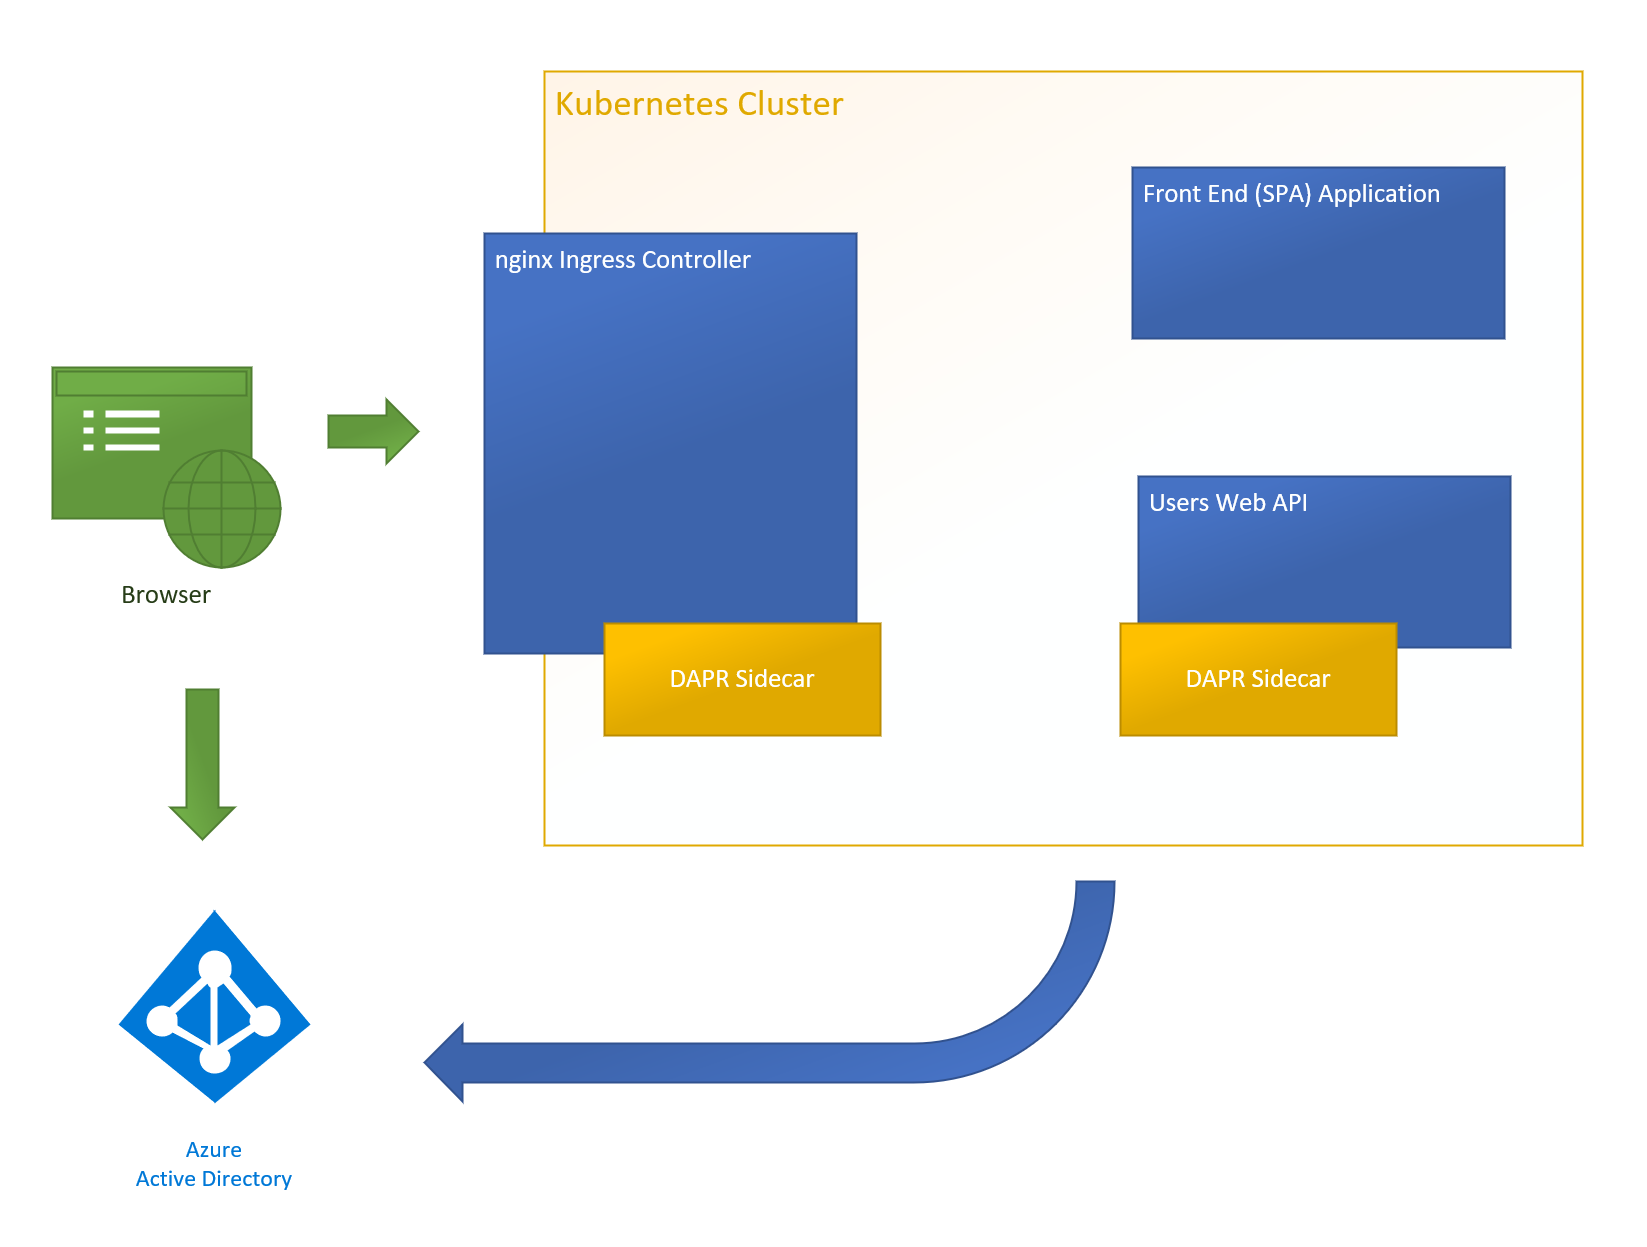
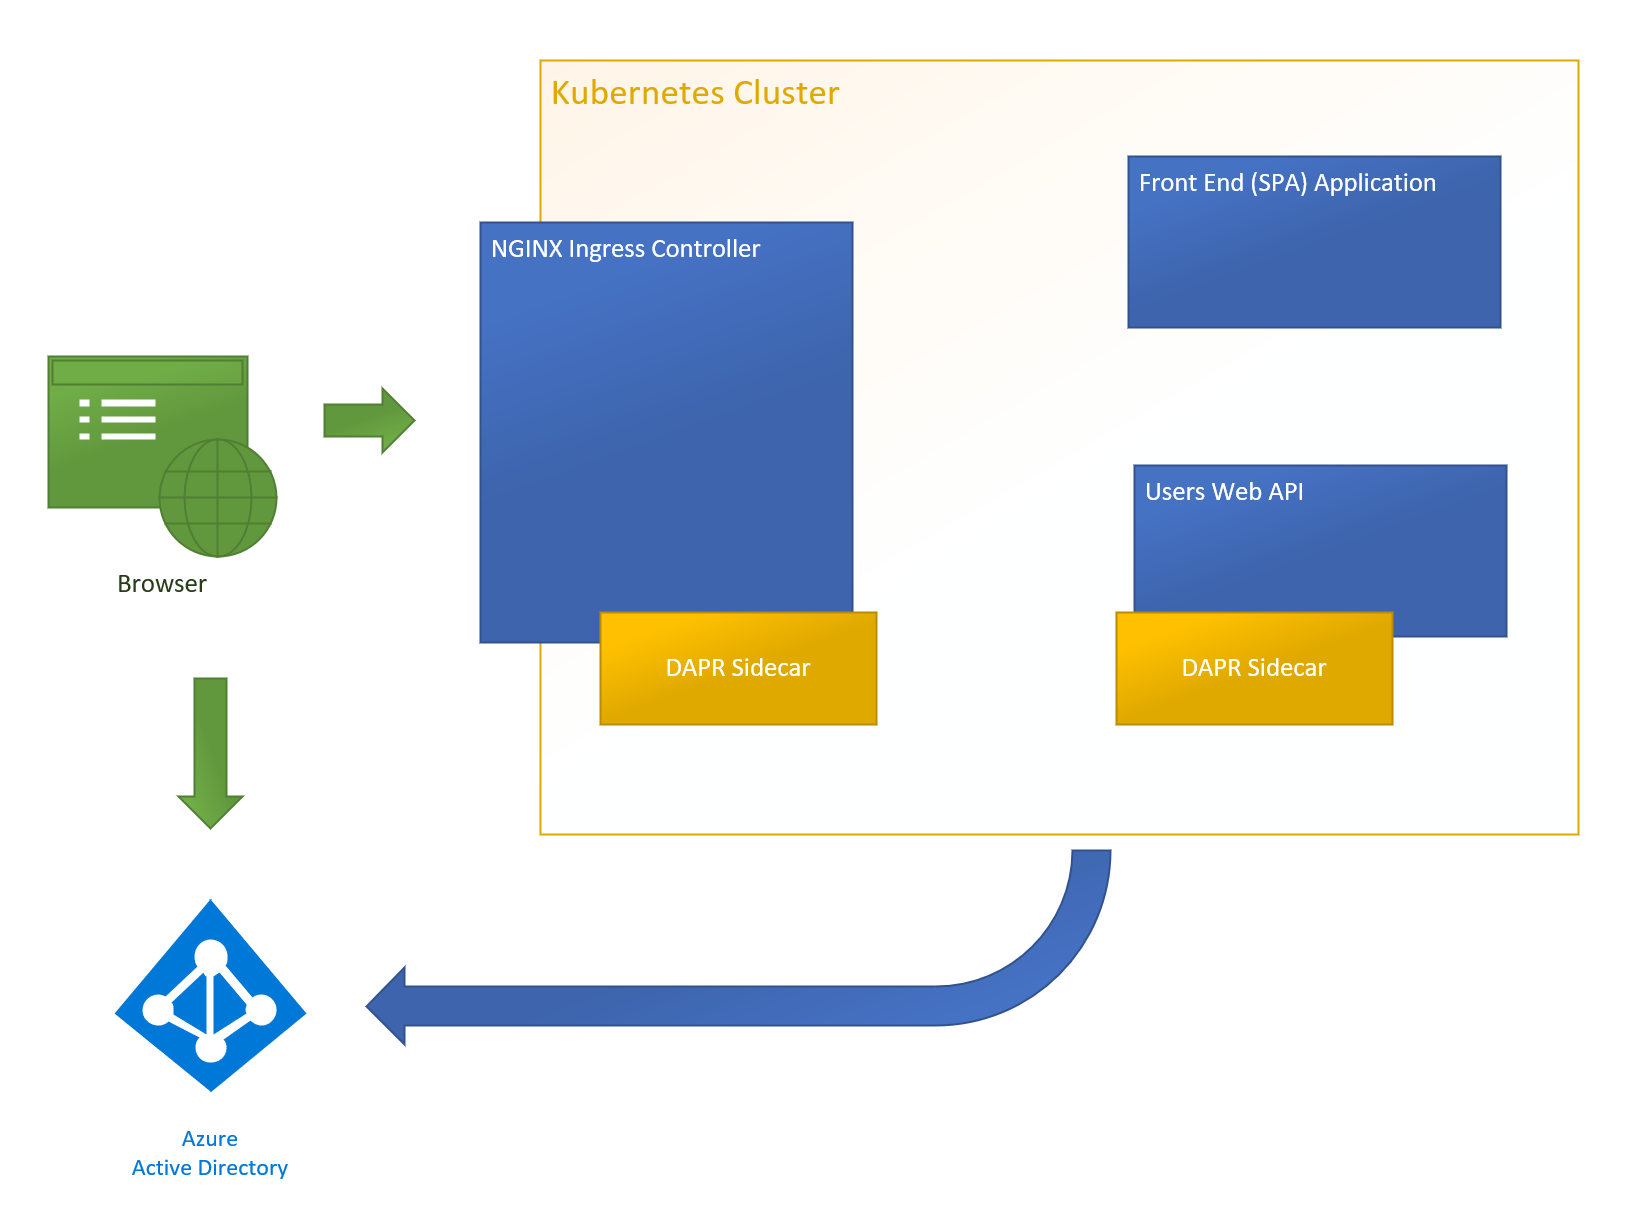
Updating post two.

diff --git a/src/styles/global.css b/src/styles/global.css
@@ -57,6 +57,9 @@ html {
     @apply underline;
     text-decoration-color: #ccc;
   }
+  & blockquote {
+    @apply mb-4 mt-4 ml-8 pl-4 bg-gray-50 border-l-2;
+  }
 }
 
 @tailwind utilities;

diff --git a/content/posts/2021/k8s-dapr-azure-identity-part-ii.module.css b/content/posts/2021/k8s-dapr-azure-identity-part-ii.module.css
@@ -1,0 +1,4 @@
+.browserPage {
+  @apply mt-4 mb-4 ml-4 border shadow-md;
+  width: 70%;
+}

diff --git a/content/posts/2021/k8s-dapr-azure-identity-part-ii.md b/content/posts/2021/k8s-dapr-azure-identity-part-ii.md
@@ -8,4 +8,229 @@ tags:
   - Identity
 ---
 
+import styles from "./k8s-dapr-azure-identity-part-ii.module.css";
+
 ## Building a Web Front End and Ingress
+
+The first step is to build a simple web application and then create a path for a client (a web browser) to access this application. The source for this post is from the [`building-frontend-app`](https://github.com/dfbaskin/azure-and-dapr-identity-example/tree/building-frontend-app) branch in the repo.
+
+I’m using [React](https://reactjs.org/), starting with [create-react-app](https://create-react-app.dev/) using the [Typescript template](https://create-react-app.dev/docs/adding-typescript). I am also using [react-router](https://reactrouter.com/web/guides/quick-start) to provide routes for navigation within the application.
+
+Because I want to use access the application using `https://`, I've added additional configuration to the `packages/browser-frontend/.env` file that incorporates the certificates that were created previously.
+
+```
+BROWSER=none
+HTTPS=true
+SSL_CRT_FILE=../../certs/testing-local.crt
+SSL_KEY_FILE=../../certs/testing-local.key
+```
+
+Doing so, allows me to run the web application locally (using `npm start`) at the address:
+
+[`https://testing.local:3000/`](https://testing.local:3000/)
+
+If the certificate was not set up correctly, the browser will complain about it being invalid or uknown.
+
+## Building the Front End Container Image
+
+The next step is to build a container image (using Docker) that will be deployed to the Kubernetes cluster. Running the command:
+
+```
+npm run build
+```
+
+builds the React application into a set of static set of files (including `index.html`, JavaScript, CSS, and other files). These files need to be served to the client (a browser). A popular mechanism is to use the open-source [NGINX](https://docs.nginx.com/nginx/admin-guide/installing-nginx/installing-nginx-open-source/) package.
+
+The `packages/browser-frontend/Dockerfile` describes the container using a pre-existing NGINX image where the web application build files as well as a `nginx.conf` configuration file are copied into it.
+
+```
+FROM nginx:latest
+COPY ./deploy/frontend-nginx.conf /etc/nginx/nginx.conf
+COPY ./build/ /var/www/site/
+```
+
+In the web application, there are two routes, one to the root (`/`) and one to an "About" page (`/about`). When serving content for a SPA web site, the server needs to recognize that the About page really comes from the default `index.html` content. There is no content to load if the user refreshes the page on the `/about` route. So the `packages/browser-frontend/deploy/frontend-nginx.conf` handles sending the correct content.
+
+```
+http {
+  include mime.types;
+  sendfile on;
+  server {
+    listen 80 default_server;
+    root /var/www/site;
+    index index.html index.htm;
+    location ~* \.(?:manifest|appcache|html?|xml|json)$ {
+      expires -1;
+    }
+    location ~* \.(?:css|js)$ {
+      try_files $uri =404;
+      expires 1y;
+      access_log off;
+      add_header Cache-Control "public";
+    }
+    location ~ ^.+\..+$ {
+      try_files $uri =404;
+    }
+    location / {
+        try_files $uri $uri/ /index.html;
+    }
+  }
+}
+```
+
+The following script can be used to build the static web site and the container image:
+
+`packages/browser-frontend/deploy/build-frontend-image.ps1`
+
+To incorporate this image into Kubernetes, the following configuration is used to define a [deployment](https://kubernetes.io/docs/concepts/workloads/controllers/deployment/) and a [service](https://kubernetes.io/docs/concepts/services-networking/service/).
+
+```
+apiVersion: apps/v1
+kind: Deployment
+metadata:
+  name: frontend-deployment
+spec:
+  selector:
+    matchLabels:
+      app: frontend
+  replicas: 1
+  template:
+    metadata:
+      labels:
+        app: frontend
+    spec:
+      containers:
+        - name: nginx
+          image: frontend-webserver:v1.3
+          imagePullPolicy: Never
+          ports:
+            - containerPort: 80
+
+---
+apiVersion: v1
+kind: Service
+metadata:
+  name: frontend-service
+spec:
+  selector:
+    app: frontend
+  ports:
+    - name: http
+      protocol: TCP
+      port: 80
+      targetPort: 80
+```
+
+The deployment describes the state of the [pod](https://kubernetes.io/docs/concepts/workloads/pods/) including the image that was built as described above. The service then exposes the deployment as a network service.
+
+The following scripts can be used to initialize these components:
+
+- `packages/nginx-ingress/create-namespace.ps1` - creates a separate [namespace](https://kubernetes.io/docs/concepts/overview/working-with-objects/namespaces/) in which to install the example application. This makes deleting the entire application from Kubernetes easier.
+
+- `packages/browser-frontend/deploy/initialize-frontend.ps1` - applies the configuration for the front end application using the image that was built previously.
+
+We can now verify that the front end application is running with a few commands:
+
+```
+> kubectl get deployment -n azure-dapr-identity-example
+
+NAME                  READY   UP-TO-DATE   AVAILABLE   AGE
+frontend-deployment   1/1     1            1           62s
+
+> kubectl get service -n azure-dapr-identity-example
+
+NAME               TYPE        CLUSTER-IP       EXTERNAL-IP   PORT(S)   AGE
+frontend-service   ClusterIP   10.103.234.151   <none>        80/TCP    81s
+
+> kubectl get pod -n azure-dapr-identity-example
+
+NAME                                   READY   STATUS    RESTARTS   AGE
+frontend-deployment-68dbc6f5dd-2qj82   1/1     Running   0          4m5s
+
+> kubectl port-forward service/frontend-service 32001:http -n azure-dapr-identity-example
+
+Forwarding from 127.0.0.1:32001 -> 80
+Forwarding from [::1]:32001 -> 80
+```
+
+The last command temporarily forwards requests from your local machine on port 32001 to the `http` port (port 80) of the `frontend-service` (press `Ctrl`+`C` to stop it). Navigate in a browser to [http://localhost:32001/](http://localhost:32001/) and you should see the web application.
+
+<div className={styles.browserPage}>
+
+![Example Web Application](./images/web-app.png)
+
+</div>
+
+(The application doesn't do anything interesting, yet.)
+
+## The NGINX Ingress Controller
+
+An [Ingress](https://kubernetes.io/docs/concepts/services-networking/ingress/) allows the outside world to interact with services within the Kubernetes cluster. The [IngressClass](https://kubernetes.io/docs/concepts/services-networking/ingress/#ingress-class) defines configuration for a particular type of ingress including the type of [Controller](https://kubernetes.io/docs/concepts/services-networking/ingress-controllers/) that implements the class.
+
+In our example, we are using the [NGINX Ingress Controller](https://docs.nginx.com/nginx-ingress-controller/overview/) for Kubernetes.
+
+> _Note that this ingress controller is different from the [NGINX Ingress Controller](https://kubernetes.github.io/ingress-nginx/) maintained by the Kubernetes team. The differences are documented [here](https://github.com/nginxinc/kubernetes-ingress/blob/master/docs/nginx-ingress-controllers.md)._
+
+The simplest way to use this ingress controller is using a [Helm](https://helm.sh/) chart. We customize the chart with some annotations:
+
+```
+controller:
+  name: example-app-ingress
+  healthStatus: true
+  defaultTLS:
+    cert: $CERT_VALUE
+    key: $KEY_VALUE
+  service:
+    httpPort:
+      port: 31002
+      targetPort: 80
+    httpsPort:
+      port: 31001
+      targetPort: 443
+```
+
+And use the following script
+
+```
+packages/nginx-ingress/initialize-nginx-ingress.ps1
+```
+
+to update `$CERT_VALUE` and `$KEY_VALUE` properties with a base-64 encoded version of the certificate and private keys we created previously and then apply the chart to the Kubernetes cluster.
+
+Finally, we create use the Ingress definition to map requests coming into the Ingress Controller to the front end application:
+
+```
+apiVersion: networking.k8s.io/v1
+kind: Ingress
+metadata:
+  name: frontend-ingress
+spec:
+  ingressClassName: nginx
+  tls:
+    - hosts:
+        - testing.local
+      secretName: example-app-ingress-nginx-ingress-default-server-tls
+  rules:
+    - host: testing.local
+      http:
+        paths:
+          - path: /
+            pathType: Prefix
+            backend:
+              service:
+                name: frontend-service
+                port:
+                  number: 80
+```
+
+The `frontend-service` exposes the static web site within the Kubernetes cluster and the ingress defintion routes calls that match the `testing.local` domain and matching paths. In our case we are just sending all incoming requests to `frontend-service`. We'll be adding a Web API that will be another destination for routed traffic.
+
+This definition will also configure [TLS-termination](https://en.wikipedia.org/wiki/TLS_termination_proxy) for us. An incoming request from outside the cluster will be encrypted, but within the cluster the requests can flow to the service unencrypted (over the `http` protocol). Note that once we incorporate DAPR, this changes, however, which we will discuss later.
+
+This ingress definition can be applied using the command:
+
+```
+kubectl apply -f frontend-ingress.yaml -n azure-dapr-identity-example
+```
+
+Once this is all configured, you can navigate in the browser to the application at [https://testing.local:31001/](https://testing.local:31001/).

diff --git a/content/posts/2021/k8s-dapr-azure-identity-part-i.md b/content/posts/2021/k8s-dapr-azure-identity-part-i.md
@@ -18,7 +18,7 @@ This example was built on my Windows 10 development machine, but should also wor
 
 - [Docker and Kubernetes](https://www.docker.com/products/docker-desktop) - Docker is used only to build the container images for deployment into Kubernetes. The application itself is run in Kubernetes.
 
-- [Helm](https://helm.sh/docs/) - To install the [nginx Ingress controller](https://github.com/nginxinc/kubernetes-ingress).
+- [Helm](https://helm.sh/docs/) - To install the [NGINX Ingress controller](https://github.com/nginxinc/kubernetes-ingress).
 
 - [Powershell](https://docs.microsoft.com/en-us/powershell/) - Scripts included in the example are written in Powershell, which is available cross platform. The scripts, however, are all fairly simple and could easily be migrated to the scripting language of your choice if so desired.
 

diff --git a/content/posts/2021/k8s-dapr-azure-identity-part-v.md b/content/posts/2021/k8s-dapr-azure-identity-part-v.md
@@ -9,3 +9,5 @@ tags:
 ---
 
 ## Incorporating DAPR
+
+a bit because it is capable of automating service discovery and ensuring that requests between services are encrypted and come from the expected source.)
